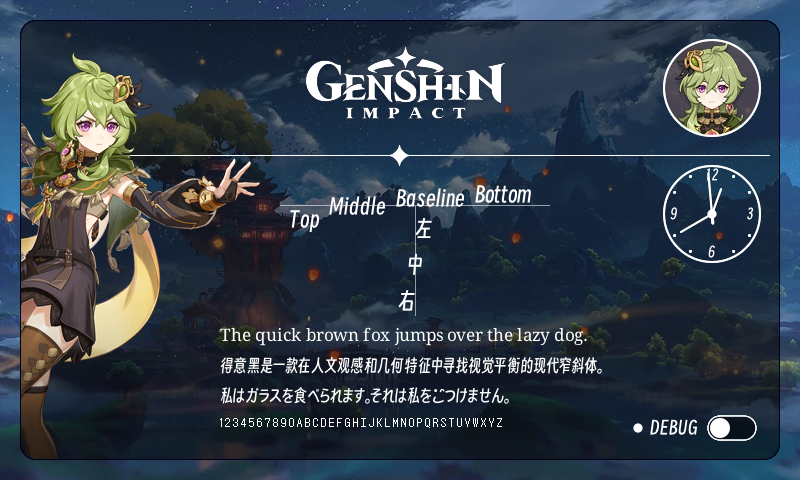
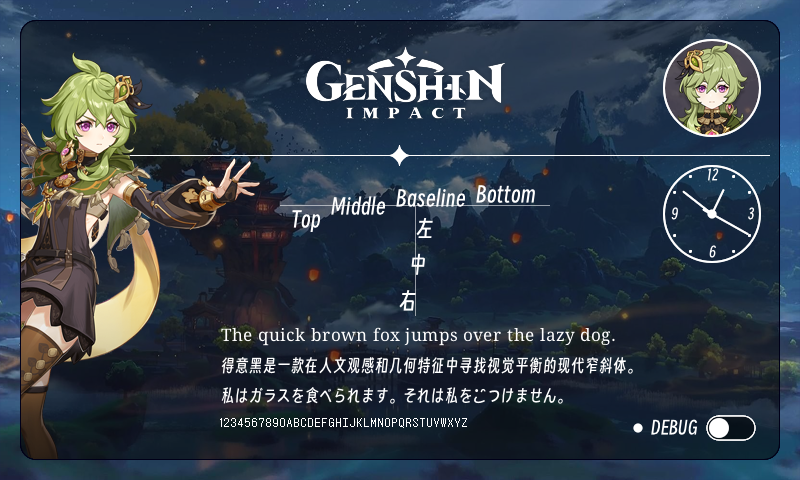
Update

diff --git a/Arc.Core/Context/ContextTextExtension.cs b/Arc.Core/Context/ContextTextExtension.cs
@@ -41,17 +41,17 @@ public static class ContextTextExtension
             var glyphOffsetY = glyph.Offset.Y;
             context.Triangles(
                 [
-                    new Vertex(x + postionX + offsetX, y + offsetY + glyphOffsetY, quad.S0, quad.T0),
-                    new Vertex(x + postionX + offsetX, y + offsetY + glyphOffsetY + height, quad.S0, quad.T1),
-                    new Vertex(x + postionX + offsetX + width, y + offsetY + glyphOffsetY, quad.S1, quad.T0),
-                    new Vertex(x + postionX + offsetX + width, y + offsetY + glyphOffsetY + height, quad.S1, quad.T1),
+                    new Vertex(x + postionX + offsetX + glyph.LeftSideBearing, y + offsetY + glyphOffsetY, quad.S0, quad.T0),
+                    new Vertex(x + postionX + offsetX + glyph.LeftSideBearing, y + offsetY + glyphOffsetY + height, quad.S0, quad.T1),
+                    new Vertex(x + postionX + offsetX + glyph.LeftSideBearing + width, y + offsetY + glyphOffsetY, quad.S1, quad.T0),
+                    new Vertex(x + postionX + offsetX + glyph.LeftSideBearing + width, y + offsetY + glyphOffsetY + height, quad.S1, quad.T1),
                 ]
             );
-            postionX += width + spacing;
+            postionX += glyph.AdvanceWidth + spacing;
         }
         context.RestoreState();
         
-        return textWidth + spacing * (text.Length - 1);
+        return postionX;
     }
 
     internal static void UpdateFontTexture(this IContext context)

diff --git a/App/ArcCanvas.cs b/App/ArcCanvas.cs
@@ -238,7 +238,7 @@ public static class ArcCanvas
         context.SaveState();
         context.SetFontFace("Zpix");
         context.SetFontSize(fontSize);
-        context.Text("1234567890ABCDEFGHIJKLMNOPQRSTUVWXYZ", l, top, TrueType.Mode.VerticalAlign.Top, TrueType.Mode.HorizontalAlign.Left, 3);
+        context.Text("1234567890ABCDEFGHIJKLMNOPQRSTUVWXYZ", l, top, TrueType.Mode.VerticalAlign.Top, TrueType.Mode.HorizontalAlign.Left);
         top += fontSize + INNER_MARGIN;
 
     }

diff --git a/TrueType/Domain/TTFAtlas.cs b/TrueType/Domain/TTFAtlas.cs
@@ -13,6 +13,9 @@ namespace TrueType.Domain
             this.Canvas = canvas;
         }
 
+        public (int ascent, int descent, int lineGap) GetVerticalMetrics() =>
+            this.Raw.GetGlyphVMetrics();
+
         public TTFGlyph GetGlyph(TTFIndex ttfIndex)
         {
             if (this.ContainsKey(ttfIndex))

diff --git a/TrueType/Domain/TTFFont.cs b/TrueType/Domain/TTFFont.cs
@@ -39,6 +39,9 @@ public class TTFFont
         return glyph.GetTextureQuad(TTF.CANVAS);
     }
 
+    public (int ascent, int descent, int lineGap) GetVerticalMetrics() =>
+        this.Atlas.GetVerticalMetrics();
+
     public int GetVertAlign(VerticalAlign verticalAlign, int size)
     {
 
